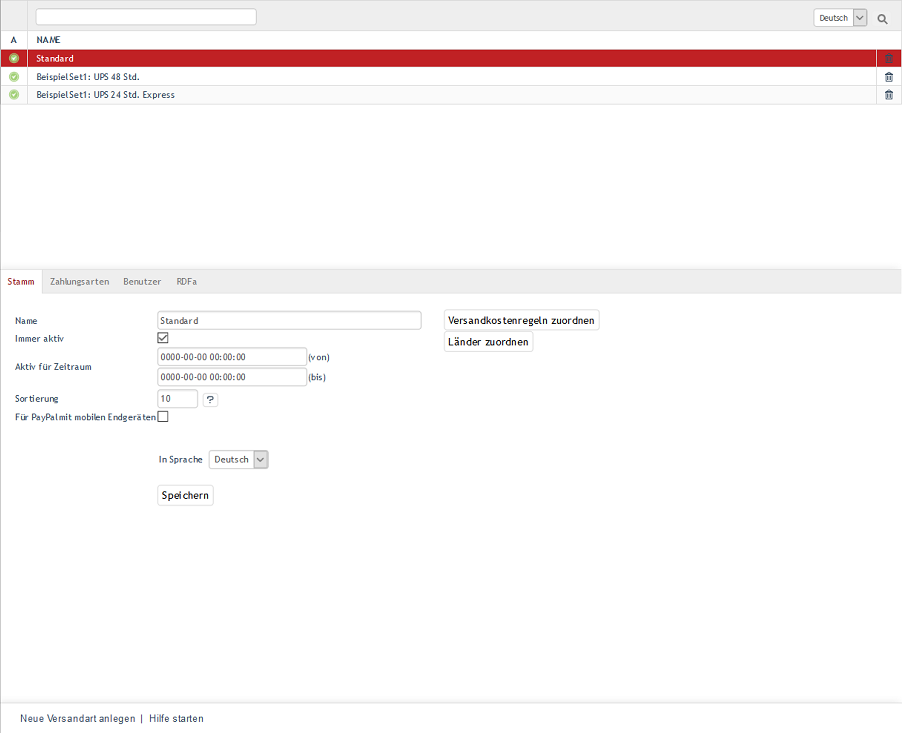
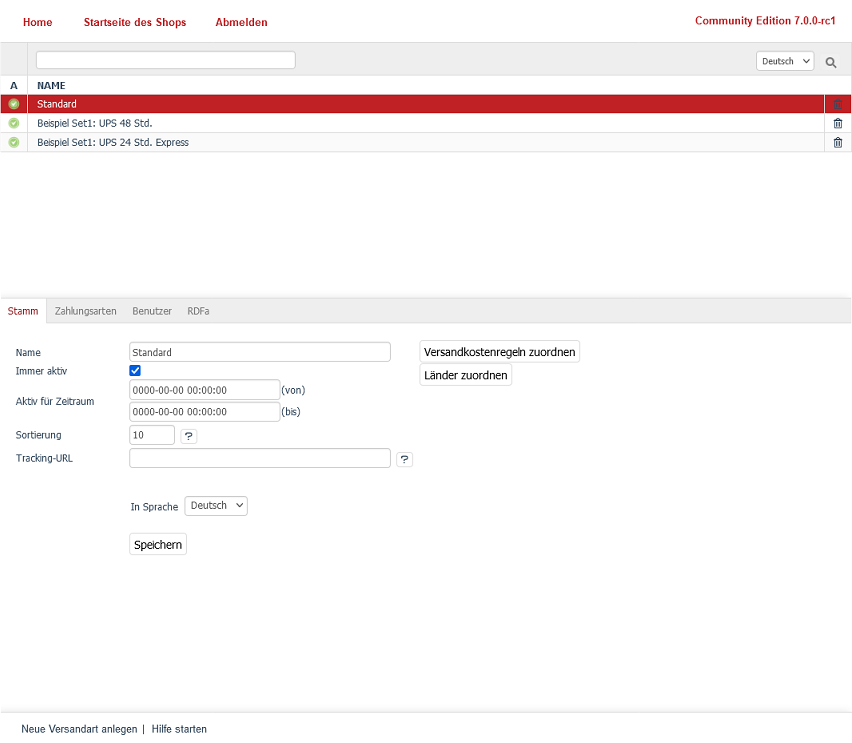
Work in progress

diff --git a/releases/releases-2021/oxid-eshop-700.rst b/releases/releases-2021/oxid-eshop-700.rst
@@ -1,5 +1,5 @@
-OXID eShop 7.0.0
-================
+OXID eShop 7.0.0 RC 1
+=====================
 
 Veröffentlichungstermin RC 1: 27.07.2021
 
@@ -26,22 +26,15 @@ Module, wie solche für die Zahlungsarten, der WYSIWYG Editor + Mediathek oder V
 
 Systemvoraussetzungen
 ^^^^^^^^^^^^^^^^^^^^^
-OXID eShop 7.0.0 läuft unter PHP 8.0, 7.4 und 7.3.
-
-Als Datenbank wird MySQL in der Version 5.5 oder 5.7 und MariaDB in der Version 10.4 unterstützt. Der Einsatz von MySQL 5.6 wird nicht empfohlen, da es Probleme mit einer Enterprise Edition geben könnte. Beachten Sie dazu bitte den Blog-Post: `Set MySQL 5.6 optimizer setting "block_nested_loop = off" for OXID eShop Enterprise Edition <https://oxidforge.org/en/set-mysql-5-6-optimizer-setting-block_nested_loop-off-for-oxid-eshop-enterprise-edition.html>`_.
-
-Als Webserver kann Apache 2.2 oder 2.4 auf einem Linux-System eingesetzt werden.
-
-Composer wird in den Versionen 1 und 2 unterstützt.
+OXID eShop 7.0.0 RC 1 läuft unter PHP 7.4 und 8.0. Als Datenbank wird MySQL in der Version 5.7 und 8.0 sowie MariaDB in der Version 10.4 unterstützt. Als Webserver kann Apache 2.2 oder 2.4 auf einem Linux-System eingesetzt werden. Composer wird in den Versionen 1 und 2 unterstützt.
 
 Installation
 ^^^^^^^^^^^^
 Für die Installation, folgen Sie bitte den Anleitungen im Abschnitt "Installation":
 
-:doc:`Neu-Installation <../../installation/neu-installation/neu-installation>` |br|
-:doc:`Update <../../installation/update/update>`
+:doc:`Neu-Installation <../../installation/neu-installation/neu-installation>`
 
-Bitte führen Sie das Update erst in einer Test- oder Entwicklungsumgebung, einer Kopie Ihres aktuellen Shops, aus. Testen Sie anschließend den Bestellprozess sowie Zahlungs- und Versandarten. Arbeitet der Shop korrekt, kann der Shop im Live-System durch den aus der Test- oder Entwicklungsumgebung ersetzt werden.
+Es wird nicht empfohlen, ein Update des OXID eShop auf die Version 7.0.0 RC 1 vorzunehmen. Eine Update-Anleitung wird mit der Veröffentlichung der finalen Version zur Verfügung stehen.
 
 -----------------------------------------------------------------------------------------
 
@@ -50,6 +43,10 @@ Neue Funktionen
 Setup per Kommandozeile
 ^^^^^^^^^^^^^^^^^^^^^^^
 Als Ergänzung zum webbasierten Setup kann OXID eShop jetzt auch über die Kommandozeile erstellt und konfiguriert werden. Das neue Kommando der OXID eShop console ``oe:setup:shop`` erstellt die Datenbank und konfiguriert den Shop. Die dafür notwendigen Informationen werden mit Parametern übergeben. In weiteren Schritten können mit ``oe:setup:demodata`` Demodaten installiert und mit ``oe:admin:create-user`` der Shop-Administrator erstellt werden. Für OXID eShop Professional und Enterprise Edition fügt das Kommando ``oe:license:add`` einen gültigen Lizenzschlüssel hinzu. Siehe: :doc:`Setup per Kommandozeile <../../installation/neu-installation/setup-kommandozeile>`
+
+Modul-Installation per Kommandozeile
+^^^^^^^^^^^^^^^^^^^^^^^^^^^^^^^^^^^^
+Module können mit den neuen Kommandos der OXID eShop console ``oe:module:install`` und ``oe:module:uninstall`` installiert und deinstalliert werden. Alle Informationen dazu finden Sie in der englischsprachigen Entwicklerdokumentation: https://docs.oxid-esales.com/developer/en/7.0-rc.1/development/modules_components_themes/module/tutorials/module_setup.html und https://docs.oxid-esales.com/developer/en/7.0-rc.1/development/modules_components_themes/module/uninstall/index.html.
 
 -----------------------------------------------------------------------------------------
 
@@ -74,6 +71,11 @@ Folgende Komponenten wurden auf eine neue Version aktualisiert:
 * OXID eShop facts (Update von 2.4.0 auf 3.0.0), `Changelog 3.0.0 <https://github.com/OXID-eSales/oxideshop-facts/blob/v3.0.0/CHANGELOG.md>`_
 * Unified Namespace Generator (Update von 2.2.0 auf 3.0.0), `Changelog 3.0.0 <https://github.com/OXID-eSales/oxideshop-unified-namespace-generator/blob/v3.0.0/CHANGELOG.md>`_
 
+Tracking-URL je Versandart
+^^^^^^^^^^^^^^^^^^^^^^^^^^
+Bisher konnte eine Tracking-URL pro Shop definiert werden. Sie wird im Administrationsbereich unter :menuselection:`Stammdaten --> Grundeinstellungen --> Einstell. --> Weitere Einstellungen` eingetragen. Diese Tracking-URL ist nun die Standard-Tracking-URL und kann durch eine eigene Tracking-URL je Versandart ersetzt werden.
+
+Sobald die Paket-ID (je nach Versanddienstleister Tracking Code, Paketscheinnummer, Paketreferenz, Sendungsnummer usw.) bei der Bestellung eingetragen ist, steht der Tracking-Link, bestehend aus der Tracking-URL und der Paket-ID der Bestellung, zur Verfügung. Er wird dem Kunden zur Sendungsverfolgung mit der E-Mail zugeschickt, mit der ihm der Versand der Ware mitgeteilt wird. In der Bestellhistorie des Kunden im Frontend wird der Tracking-Link ebenfalls angezeigt.
 
 Kreditkarte als Zahlungsart nicht mehr unterstützt
 ^^^^^^^^^^^^^^^^^^^^^^^^^^^^^^^^^^^^^^^^^^^^^^^^^^

diff --git a/installation/neu-installation/server-und-systemvoraussetzungen.rst b/installation/neu-installation/server-und-systemvoraussetzungen.rst
@@ -15,12 +15,10 @@ Webserver
 
 Bitte beachten Sie, dass trotz installierter Erweiterung *mod_rewrite* bei der Prüfung der Systemgesundheit die Voraussetzungen nicht erfüllt sein können. Ein Grund dafür ist oft die Einstellung für *AllowOverride* in der Apache-Konfiguration des vHosts. Diese wurde mit Apache 2.3.9 auf *AllowOverride None* geändert.
 
-Der Zend Guard Loader wird nicht länger benötigt, da OXID eShop 6 unverschlüsselt ist.
-
 Datenbank
 ---------
 
-* MySQL 5.5 und 5.7
+* MySQL 5.7 und 8.0
 * MariaDB (getestet mit MariaDB 10.4)
 
 Der Datenbankbenutzer benötigt ausreichende Berechtigung, um während der Installation eine Datenbank erstellen zu können, sofern diese nicht bereits existiert. Die Berechtigung muss auch das Erstellen von Views erlauben.
@@ -30,7 +28,7 @@ Das Transaction Isolation Level muss serverseitig beim Standardwert *REPEATABLE 
 PHP
 ---
 
-* PHP Versionen 8.0, 7.4 und 7.3
+* PHP Versionen 7.4 und 8.0
 * Empfohlen wird ein *memory_limit* von 60 MB, mindestens aber 32 MB
 * Die PHP-Einstellung *session.auto_start* in der Datei :file:`php.ini` sollte deaktiviert sein (OFF)
 * Datei-Uploads sollten in PHP aktiviert sein
@@ -51,18 +49,17 @@ PHP-Erweiterungen, die installiert sein müssen:
 * *SOAP*
 * *DOM*
 
-.. note:: Für den Betrieb von PHP 8 wird dringend empfohlen, das error_reporting von PHP auf ``error_reporting = E_ALL & ~E_NOTICE & ~E_WARNING & ~E_DEPRECATED`` zu setzen, da Sie sonst eine Vielzahl von Warnungen erhalten werden.V
+.. note:: Für den Betrieb von PHP 8 wird dringend empfohlen, das error_reporting von PHP auf ``error_reporting = E_ALL & ~E_NOTICE & ~E_WARNING & ~E_DEPRECATED`` zu setzen, da Sie sonst eine Vielzahl von Warnungen erhalten werden.
 
 Composer
 --------
 
 * Composer
 
-Composer wird für die Installation des OXID eShop und Änderungen im Autoloading von Dateien (nicht zur Laufzeit) benötigt. Mit OXID eShop 6.2.3 vom November 2020 werden die Versionen 1 und 2 von Composer unterstützt. Die Anforderungen an Composer finden sich unter `https://getcomposer.org/doc/00-intro.md#system-requirements <https://getcomposer.org/doc/00-intro.md#system-requirements>`_.
+Composer wird für die Installation des OXID eShop und Änderungen im Autoloading von Dateien (nicht zur Laufzeit) benötigt. OXID eShop 7.0.0 wurde mit den Versionen 1 und 2 von Composer getestet. Bitte beachten Sie die zukünftige Verfügbarkeit von Composer Version 1. Siehe: `Deprecating Packagist.org support for Composer 1.x <https://blog.packagist.com/deprecating-composer-1-support/>`_
 
 OpenSSL
 -------
-
 Für die zu einer Compilation gehörenden Module wird OpenSSL benötigt.
 
 * *openssl* >= 1.0.1

diff --git a/betrieb/bestellungen/registerkarte-stamm.rst b/betrieb/bestellungen/registerkarte-stamm.rst
@@ -31,7 +31,10 @@ Auf der Registerkarte :guilabel:`Stamm` können Bestellinformationen hinzugefüg
 :guilabel:`Versandinformationen`
    Bei der Bestellung hat der Kunde eine Versandart gewählt, die zusammen mit den Versandkosten übersichtlich angeordnet angezeigt wird. Der Shopbetreiber kann diese Angaben, falls notwendig, ändern.
 
-Damit Kunden den Versand ihrer bestellten Ware verfolgen können, kann die Tracking-URL des Versanddienstleisters im Administrationsbereich unter :menuselection:`Stammdaten --> Grundeinstellungen --> Einstell. --> Weitere Einstellungen` eingetragen werden. Tracking-URL und die Paket-ID der Bestellung (je nach Versanddienstleister Tracking Code, Paketscheinnummer, Paketreferenz usw.) werden dem Kunden als Link zur Sendungsverfolgung mit der E-Mail zugeschickt, mit der ihm der Versand der Ware mitgeteilt wird. Standardmäßig ist die Sendungsverfolgung für den Versanddienstleister DPD (Dynamic Parcel Distribution) konfiguriert.
+:guilabel:`Tracking-Code`
+   Tragen Sie hier die Paket-ID der Bestellung (je nach Versanddienstleister Tracking Code, Paketscheinnummer, Paketreferenz usw.) ein. Der Tracking-Link, bestehend aus der Tracking-URL und der Paket-ID der Bestellung, wird dem Kunden zur Sendungsverfolgung mit der E-Mail zugeschickt, mit der ihm der Versand der Ware mitgeteilt wird. In der Bestellhistorie des Kunden im Frontend wird der Tracking-Link ebenfalls angezeigt.
+
+Die Tracking-URL kann für jede einzelne Versandart definiert werden. Gibt es für eine Versandart keine spezielle Tracking-URL, wird die im Administrationsbereich unter :menuselection:`Stammdaten --> Grundeinstellungen --> Einstell. --> Weitere Einstellungen` eingetragene verwendet.
 
 Die Schaltflächen :guilabel:`Jetzt versenden` und :guilabel:`Versanddatum zurücksetzen`, ebenso wie das Kontrollkästchen :guilabel:`E-Mail schicken?` erfüllen die gleiche Funktion, wie auf der Registerkarte :guilabel:`Übersicht`. Das Versanddatum kann gesetzt und der Kunde per E-Mail über den Versand der Ware informiert werden. Es wird die Zeile :guilabel:`Versandt am` mit der Datums- und Zeitangabe vervollständigt.
 

diff --git a/einrichtung/versandarten/registerkarte-stamm.rst b/einrichtung/versandarten/registerkarte-stamm.rst
@@ -5,7 +5,7 @@ Die Registerkarte :guilabel:`Stamm` stellt einige Einstellungen für die Versand
 
 .. image:: ../../media/screenshots/oxbade01.png
    :alt: Versandarten - Registerkarte Stamm
-   :height: 342
+   :height: 339
    :width: 650
 
 :guilabel:`Name`
@@ -19,6 +19,11 @@ Die Registerkarte :guilabel:`Stamm` stellt einige Einstellungen für die Versand
 
 :guilabel:`Sortierung`
    Die Sortierung legt die Reihenfolge der Versandarten in der Dropdown-Liste fest. Die Versandart mit der kleinsten Zahl steht als erste zur Auswahl und ist damit vorausgewählt.
+
+:guilabel:`Tracking-URL`
+   Für jede Versandart kann eine separate Tracking-URL definiert werden. ##ID## dient dabei als Platzhalter, welcher durch die jeweilige Paket-ID der Bestellung (je nach Versanddienstleister Tracking Code, Paketscheinnummer, Paketreferenz, Sendungsnummer usw.) ersetzt wird. Gibt es für eine Versandart keine eigene Tracking-URL, wird die im Administrationsbereich unter :menuselection:`Stammdaten --> Grundeinstellungen --> Einstell. --> Weitere Einstellungen` eingetragene verwendet.
+
+Tracking-URL und konkrete Paket-ID der Bestellung werden zum Tracking-Link zusammengefügt. Dieser wird dem Kunden zur Sendungsverfolgung mit der E-Mail zugeschickt, mit der ihm der Versand der Ware mitgeteilt wird. In der Bestellhistorie des Kunden im Frontend wird der Tracking-Link ebenfalls angezeigt.
 
 :guilabel:`In Sprache`
    Die Versandart kann in weiteren aktiven Sprachen des Shops bearbeitet werden. Wählen Sie eine Sprache aus der Dropdown-Liste aus.

diff --git a/einrichtung/versandarten/versandarten.rst b/einrichtung/versandarten/versandarten.rst
@@ -13,7 +13,7 @@ Unter der Liste befindet sich der Eingabebereich für die Versandart. Wird eine 
 
 .. image:: ../../media/screenshots/oxbadd01.png
    :alt: Versandarten
-   :height: 528
+   :height: 567
    :width: 650
 
 OXID eShop wird mit den vorbereiteten Versandarten \"Standard\", \"Beispiel Set1: UPS 48 Std.\" und \"Beispiel Set1: UPS 24 Std. Express\" ausgeliefert. Diese können verwendet werden, nachdem sie individuell angepasst wurden, oder als Vorlage für neu zu definierende Versandarten dienen.
@@ -26,7 +26,7 @@ Benutzer und Benutzergruppen können, müssen aber nicht zugeordnet sein. Fehlt 
 
 Registerkarte Stamm
 -------------------
-**Inhalte**: aktive Versandart, aktiver Zeitraum, Sortierung, Versandkostenregeln und Länder zuordnen |br|
+**Inhalte**: aktive Versandart, aktiver Zeitraum, Sortierung, Tracking-URL, Versandkostenregeln und Länder zuordnen |br|
 :doc:`Artikel lesen <registerkarte-stamm>` |link|
 
 Registerkarte Zahlungsarten

diff --git a/installation/neu-installation/setup-kommandozeile.rst b/installation/neu-installation/setup-kommandozeile.rst
@@ -68,5 +68,9 @@ OXID eShop Professional und Enterprise Edition benötigen für den produktiven B
 
 Mit dem Kommando ``oe:license:clear`` können alle Lizenzschlüssel eines Shops gelöscht werden.
 
+|schritt| Module installieren
+-----------------------------
+Module können mit dem Kommando ``oe:module:install`` der OXID eShop console installiert werden. Das Kommando ``oe:module:uninstall`` entfernt ein angegebenes Modul aus dem Shop. Alle Informationen dazu finden Sie in der englischsprachigen Entwicklerdokumentation: https://docs.oxid-esales.com/developer/en/7.0-rc.1/development/modules_components_themes/module/tutorials/module_setup.html und https://docs.oxid-esales.com/developer/en/7.0-rc.1/development/modules_components_themes/module/uninstall/index.html.
+
 
 .. Intern: oxbaju, Status:

diff --git a/releases/releases.rst b/releases/releases.rst
@@ -4,4 +4,4 @@
 Releases 2021
 -------------
 
-27.07.2021 - :doc:`OXID eShop 7.0.0 <releases-2021/oxid-eshop-700>`
+27.07.2021 - :doc:`OXID eShop 7.0.0 RC 1 <releases-2021/oxid-eshop-700>`
